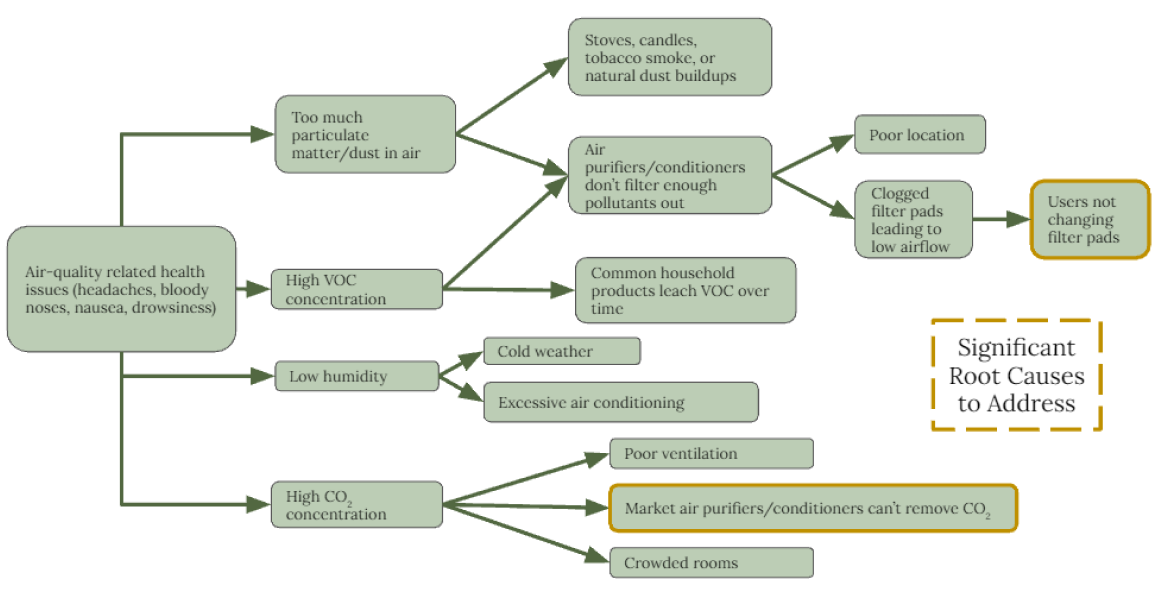
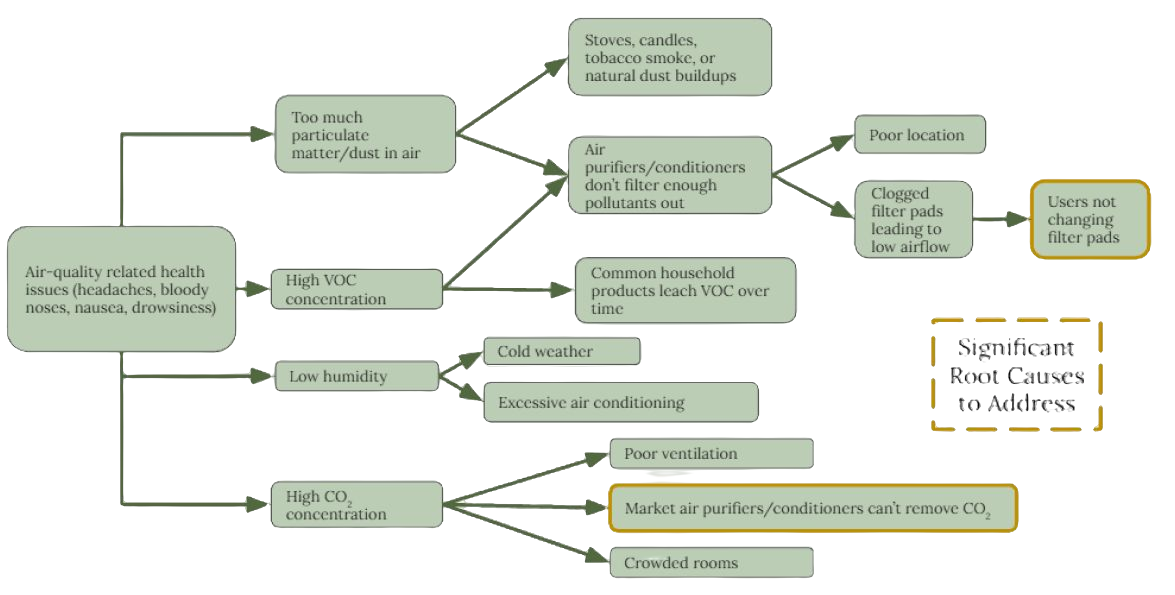
updated images

diff --git a/arbor.html b/arbor.html
@@ -104,7 +104,7 @@ https://templatemo.com/tm-531-reflux
           <h3>Problem:</h3>
           Crowded or poorly ventilated indoor spaces can result in high concentrations of common household gases like volatile organic compounds (VOCs) and carbon dioxide (CO2), causing fatigue, impaired thinking, nausea, and headaches.
 
-          <br><img src="assets/images/arbor/root-cause.png" style="padding: 20px; width: 100%; display: block; margin-left:auto; margin-right:auto;" class="center" alt="AutoAqua">
+          <br><img src="assets/images/arbor/root-cause.svg" style="padding: 20px; width: 100%; display: block; margin-left:auto; margin-right:auto;" class="center" alt="AutoAqua">
           
           <h3>Solution:</h3>
           Arbor is a sustainable, easily mountable, and clog-free air purifier that enhances the indoor environment through removing particulate and gaseous contaminants, increasing humidity, and releasing negative ions.

diff --git a/gumacup.html b/gumacup.html
@@ -107,7 +107,7 @@ https://templatemo.com/tm-531-reflux
           bothered by the fact that there are no travel mugs that are completely plastic-free, which makes their end-of-life processing
           difficult.
           
-          <br><img src="assets/images/gumacup/cup.png" style="padding: 20px; width: 60%; display: block; margin-left:auto; margin-right:auto;" class="center" alt="AutoAqua">
+          <br><img src="assets/images/gumacup/cup2.png" style="padding: 20px; width: 60%; display: block; margin-left:auto; margin-right:auto;" class="center" alt="AutoAqua">
           
           <h3>Solution:</h3>
           GumaCup is a stainless steel, double-walled cup with a pressure sealing lid and an
